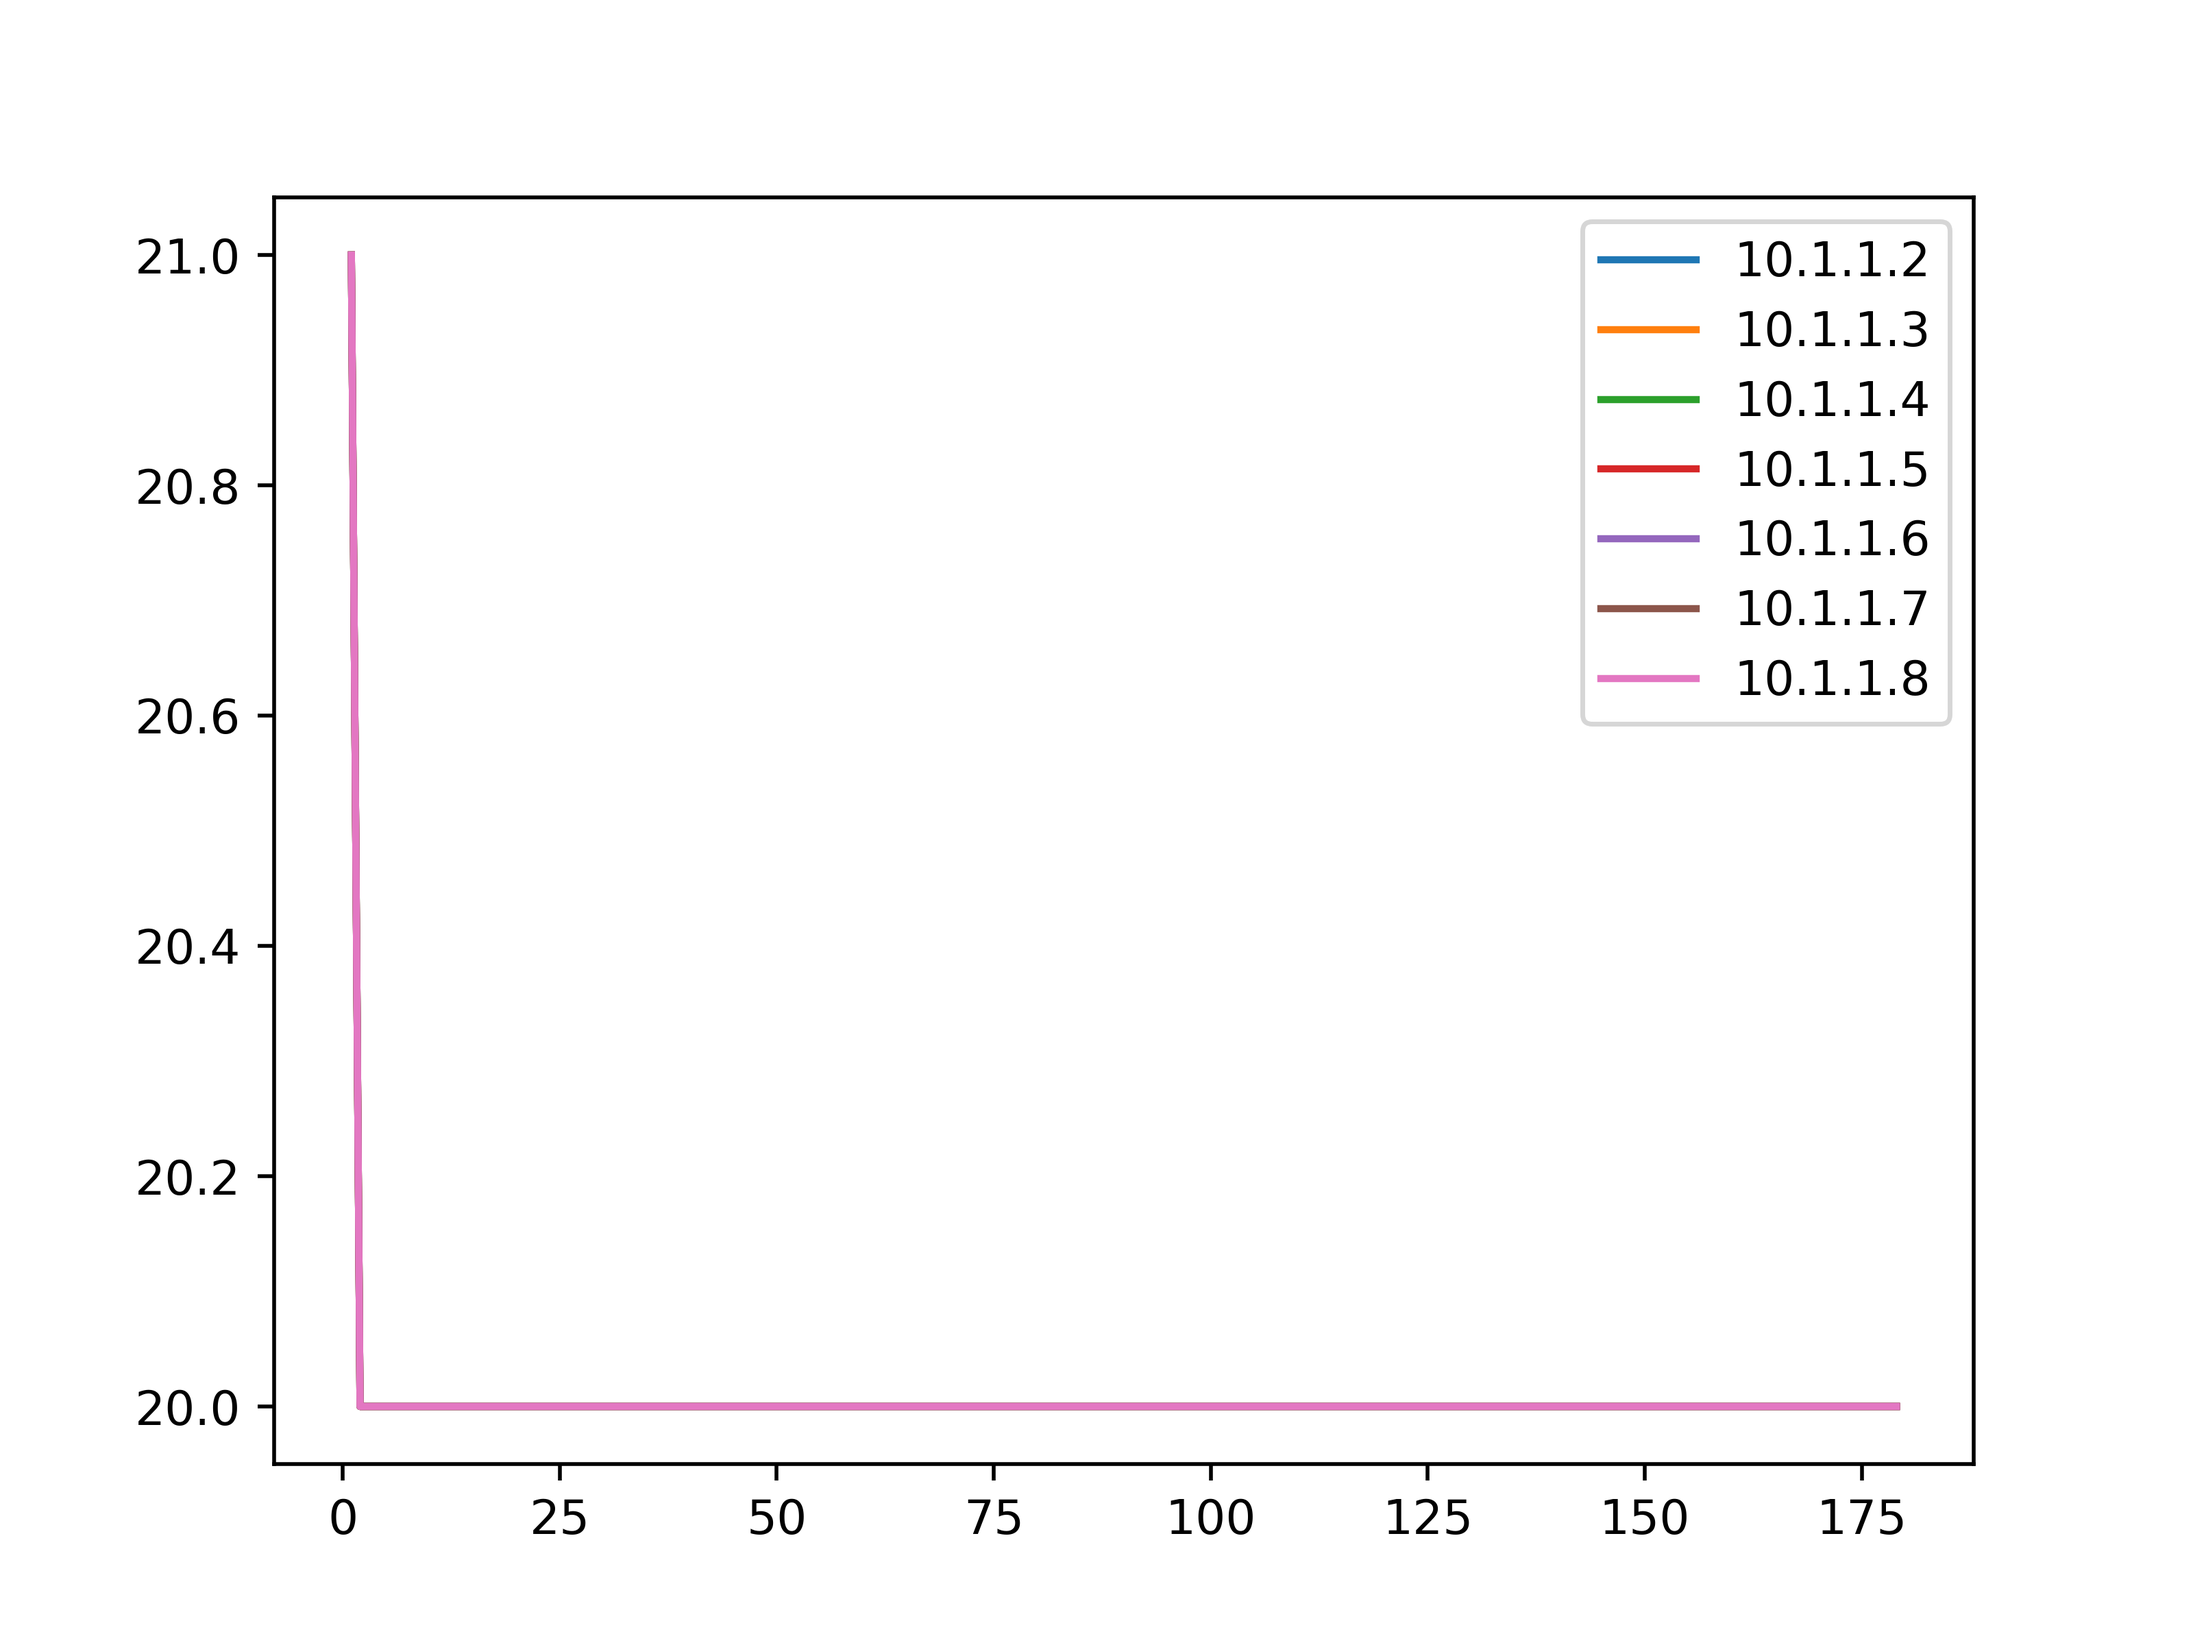
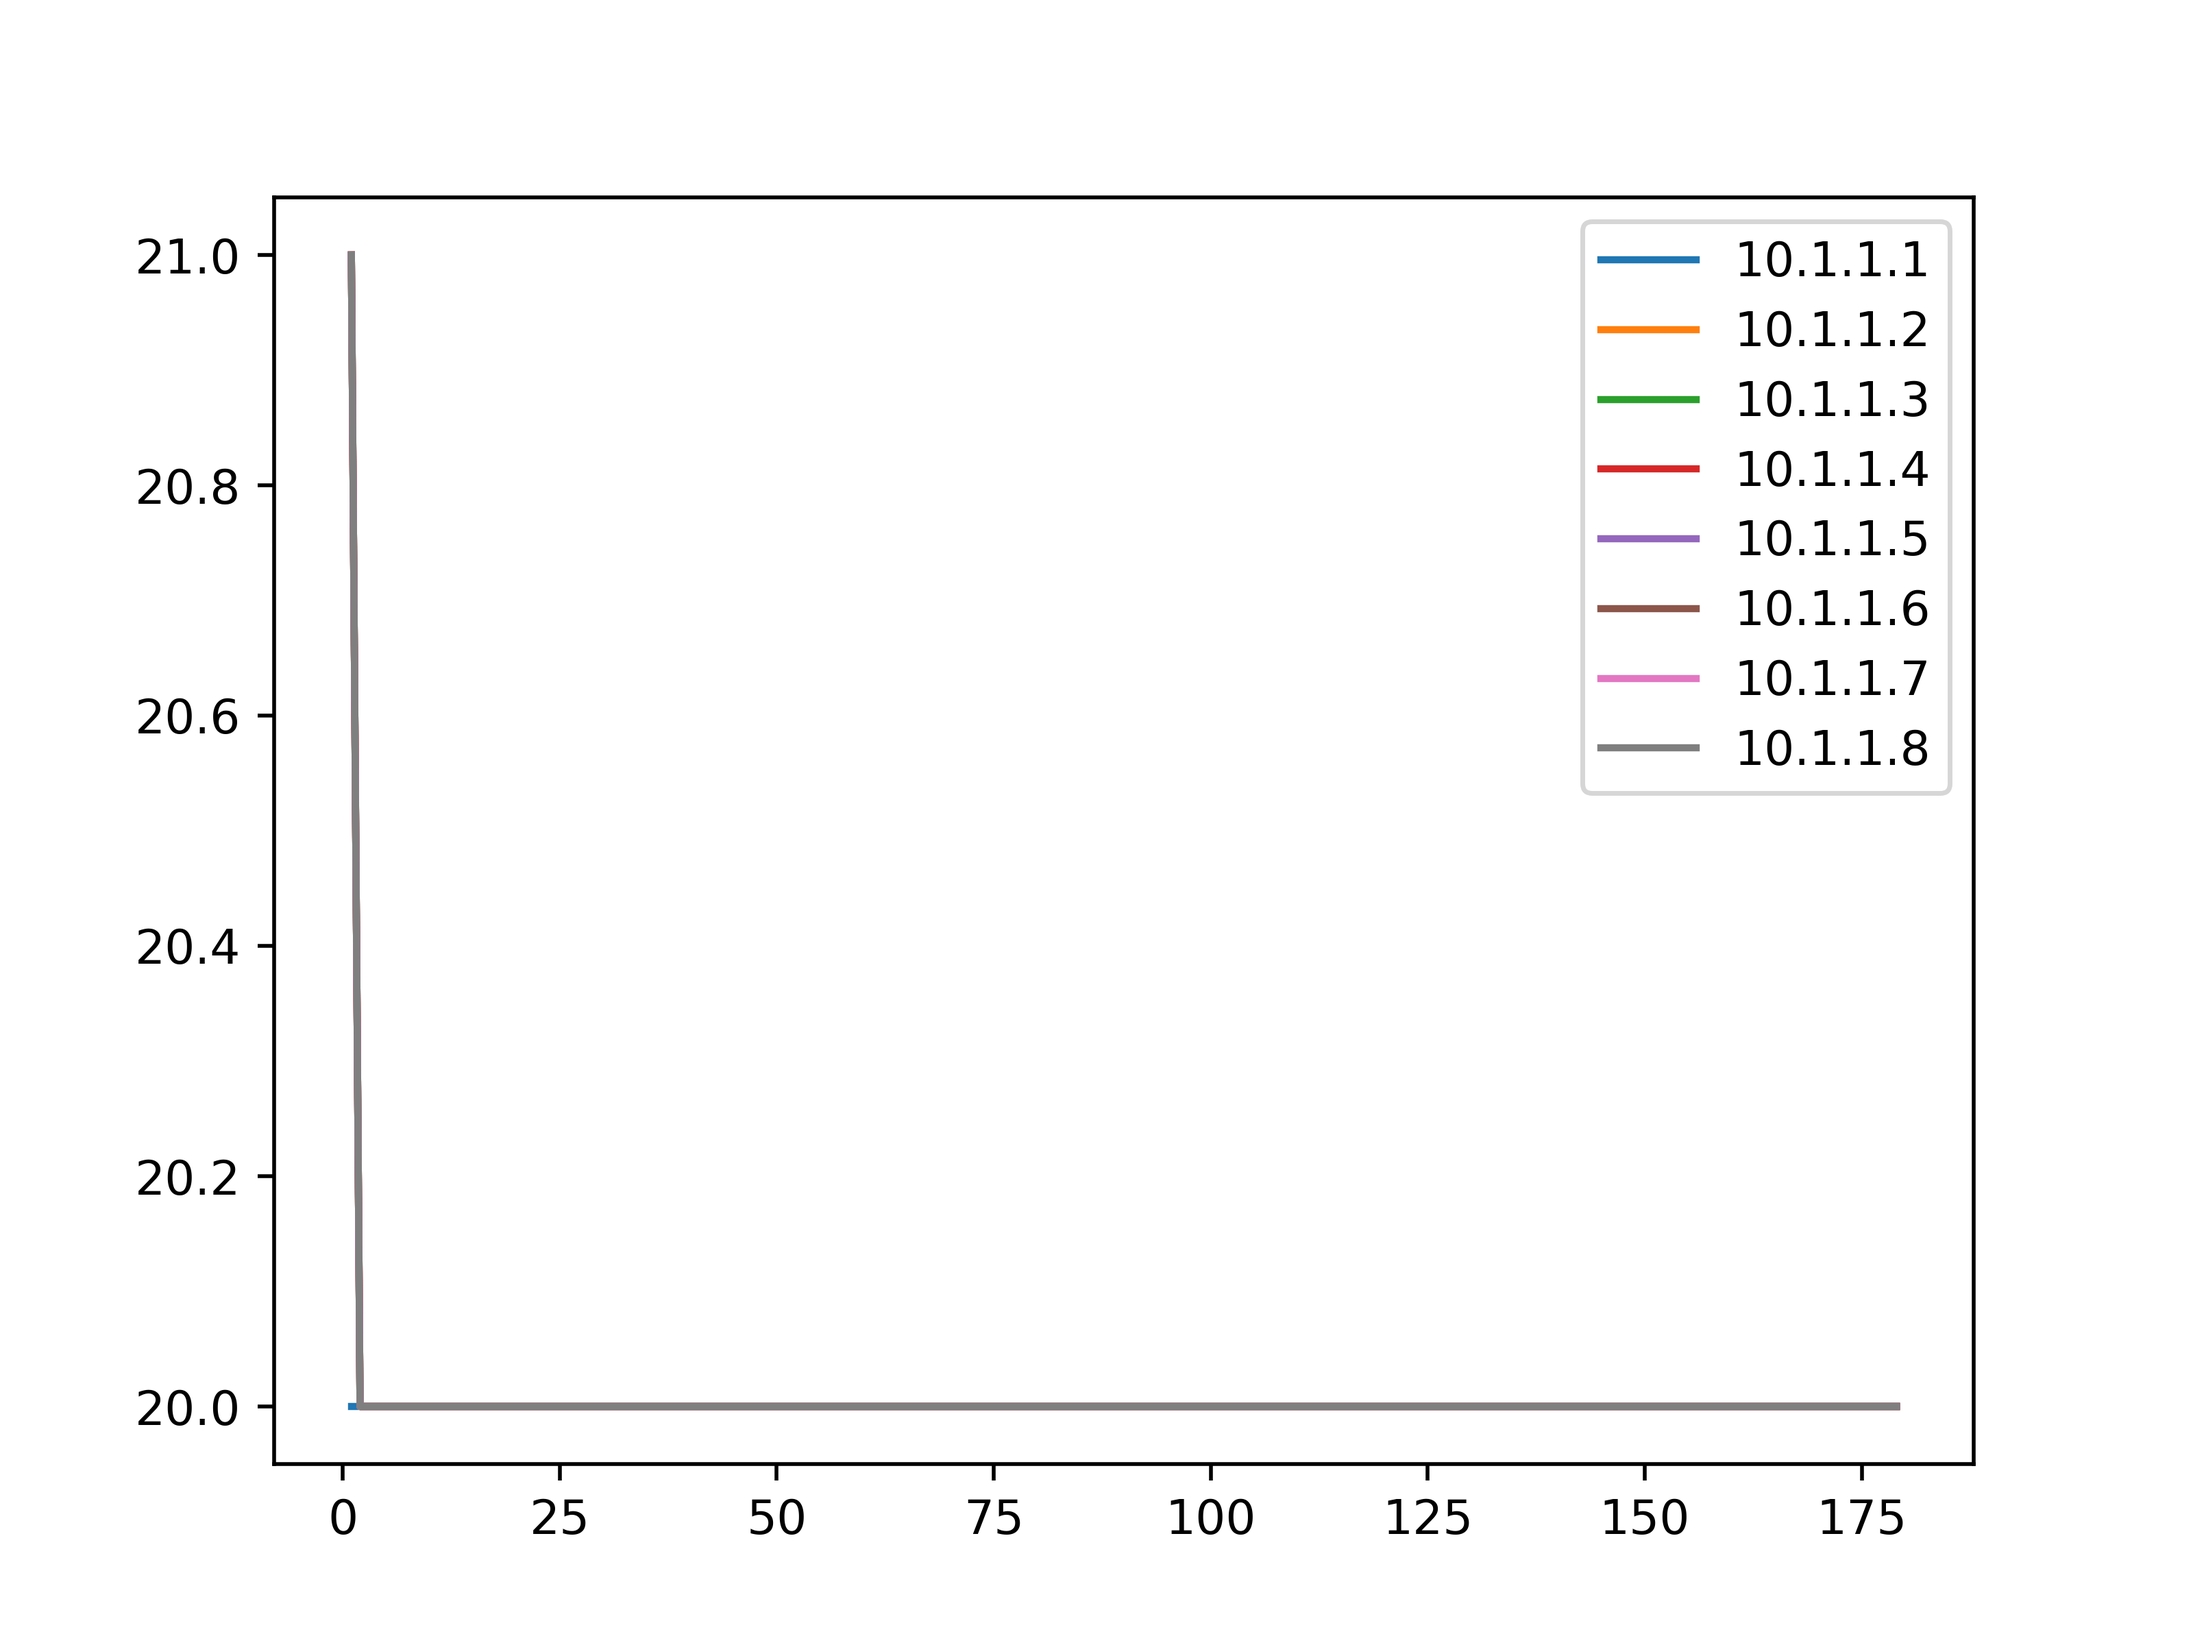
minor graphing bugfix
Adds source node to graphed net devices

Changed region(s): [[0.1562, 0.1562, 0.8438, 0.875], [0.7188, 0.4375, 0.9062, 0.5]]

diff --git a/src/Visualizer/packet-loss.py b/src/Visualizer/packet-loss.py
@@ -27,6 +27,10 @@ csv_file.close()
 csv_header = raw_lines[0]
 lines = []
 devices = []
+#the source node isnt listed in the same format as the other devices
+#we have to append it manually
+devices.append(csv_header.split(",")[5])
+
 for line in raw_lines[1:]:
     #Parse raw lines and stick into lines
     parsed = parse_csv_line(line)
